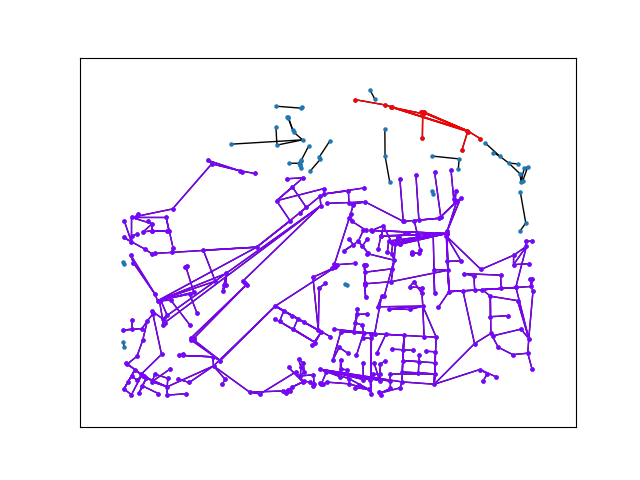
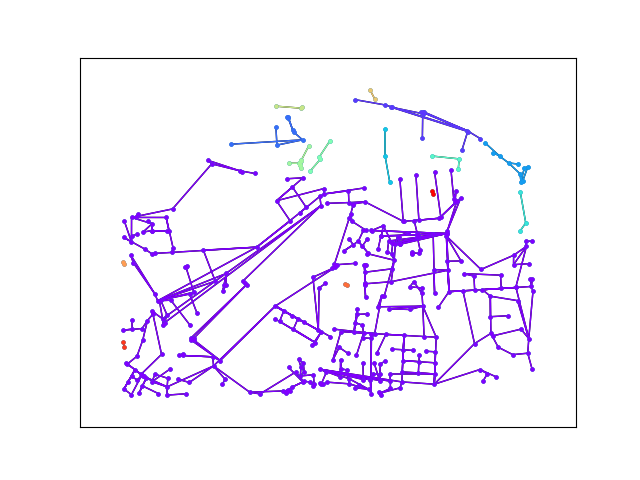
Fix max speed

diff --git a/scripts/main.py b/scripts/main.py
@@ -3,7 +3,6 @@ import json
 import os
 from scripts.config import Config
 from scripts.data_fetcher import DataFetcher
-from scripts.exception import NoSuggestedPathException
 from scripts.model import Model
 from scripts.graph import GraphProcessing
 
@@ -25,16 +24,14 @@ def main():
     model = Model(data_fetcher)
     graph = GraphProcessing(model)
 
-    try:
-        largest_components = graph.preprocessing()
-    except NoSuggestedPathException as e:
-        print(e)
-        graph.display(filepath=os.path.join(root, args.save, 'cycle_friendly.png'))
-    else:
-        graph.display(filepath=os.path.join(root, args.save, 'cycle_friendly.png'))
-        graph.display(largest_components, filepath=os.path.join(root, args.save, 'components.png'))
+    components = graph.preprocessing()
+    graph.display(filepath=os.path.join(root, args.save, 'cycle_friendly.png'))
+    graph.display(components, filepath=os.path.join(root, args.save, 'components.png'))
 
-        region_from, region_to = largest_components
+    if len(components) < 2:
+        print('Graph is fully connected, no paths suggested')
+    else:
+        region_from, region_to = components[0], components[1]
         strategies = config.strategies
 
         if strategies.get('overall', False):

diff --git a/scripts/graph.py b/scripts/graph.py
@@ -3,7 +3,6 @@ import networkx as nx
 import numpy as np
 from geopy import distance
 from matplotlib import colormaps
-from scripts.exception import NoSuggestedPathException
 from scripts.model import Model
 from typing import Dict, List, Set, Tuple
 
@@ -35,11 +34,7 @@ class GraphProcessing:
         if self.config.zero_cost:
             edge_length = self.set_zero_cost(edge_length)
             nx.set_edge_attributes(self.graph_unfiltered, edge_length, 'length')
-
-        if len(sorted_groups) >= 2:
-            return [sorted_groups[0], sorted_groups[1]]
-        else:
-            raise NoSuggestedPathException('Graph is fully connected!')
+        return sorted_groups
 
     def set_zero_cost(self, edge_length: Dict[Tuple[int, int], float]):
         for edge in edge_length.keys():

diff --git a/scripts/model.py b/scripts/model.py
@@ -29,10 +29,11 @@ class Model:
             weight, mapping = tag.weight, tag.values
             tag_score = 0
             if tag_key == 'maxspeed':
+                t_value = int(tag_value.split(' ')[0])
                 for m_key, m_value in mapping.items():
                     m_range = m_key.split(',')
                     start, end = int(m_range[0]), int(m_range[1])
-                    if start < m_value <= end:
+                    if start < t_value <= end:
                         tag_score = m_value
                         break
             else:

diff --git a/scripts/config.py b/scripts/config.py
@@ -69,8 +69,9 @@ class Config:
     weighted_tags: WeightedTags
 
     @classmethod
-    def from_dict(cls, data):
-        area = data.get("area")
+    def from_dict(cls, data, area=None):
+        if area is None:
+            area = data.get("area")
         bounding_boxes = data.get('boundingBoxes')
         if area not in bounding_boxes.keys():
             raise Exception(f"{area} does not have a corresponding bounding box in configuration.json")
